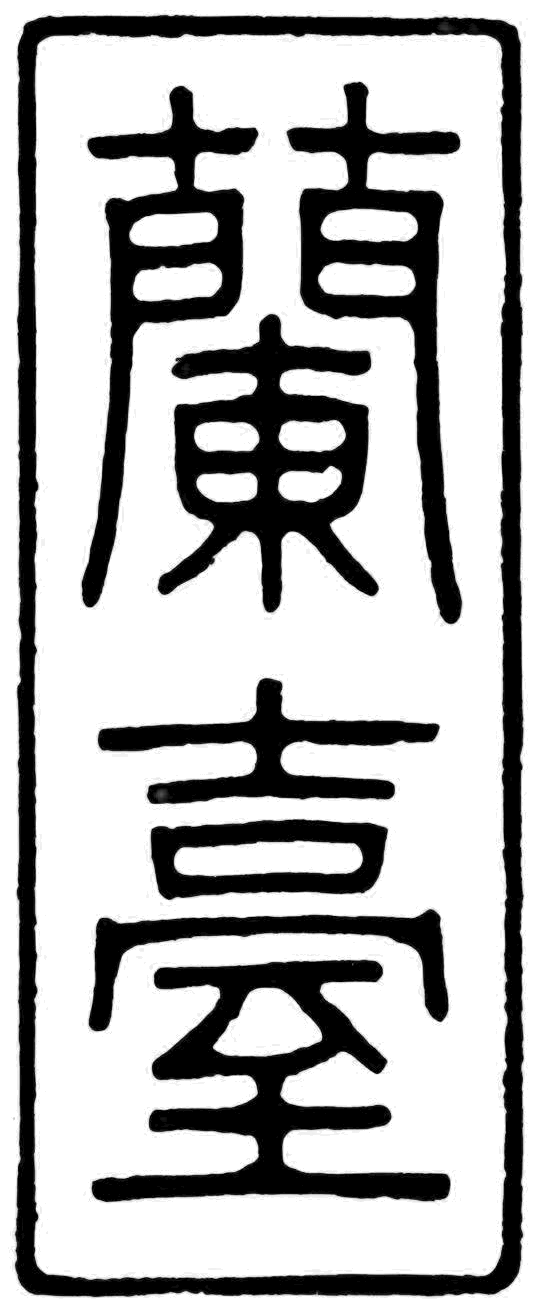
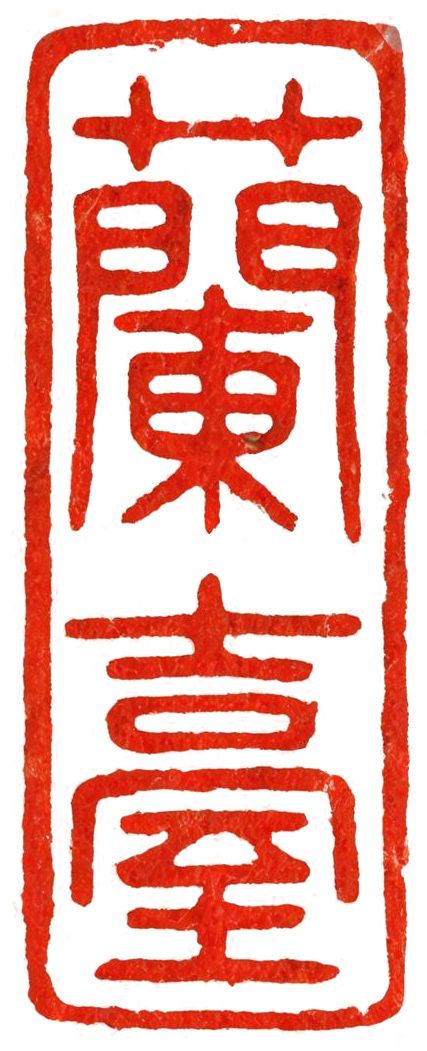
feat(paper): 印章遮罩重制——蘭臺朱文竖章三选二换装（材质批二收口）
sh-seal-mask.png 换新：seedream 生「蘭臺」朱文竖章三候选（用户目选 2 号）
→ 红度阈值去白底（R−max(G,B) 12–48 软阈——白底全透 50%、笔画实 42%、
边缘软晕 8%，抗锯齿羽化天然成形）→ alpha mask。
- 章面比例 427:1051（≈1:2.46），aspect-ratio 同步；旧 540:1314 退役
- 旧注释指向的 assets/seals/seal-zhuwen-vertical.jpeg 源图仓库本就不在
  （D1 未入库），注释改述现行管道，不再引用幽灵路径
- 印面 = --seal token 实色 × 印泥纹理（材质批一）× 新 mask 形状——
  三层各管一摊，换章不动色不动泥

验证：mask 目检（蘭臺篆字清晰、边框完整、软边无白残）；首页截图目检 +
数值（红像素 500 / 亮度 140.8 / 起伏 14.9——纹理乘印仍在）；钉测试 20/20、
biome 0/0、build 绿。

diff --git a/src-ui/src/app/foundation.css b/src-ui/src/app/foundation.css
@@ -165,13 +165,16 @@ body::before {
   gap: 16px;
 }
 /* 朱砂印章（蘭臺竖章，微倾——手钤不端正才自然）。
- * D1 印章重制落地（2026-08-29）：CSS 字排章退役，换生图篆刻资产——
- * mask 即形状（sh-seal-mask.png alpha 遮罩，由 assets/seals/seal-zhuwen-vertical.jpeg
- * 去白底生成），background-color 直用 --seal token，色随 token 走不改图。
- * 原始章面比例 540:1314（≈1:2.43），aspect-ratio 钉住防拉伸。 */
+ * D1 印章重制（2026-08-29）：CSS 字排章退役，换生图篆刻资产——mask 即形状
+ * （sh-seal-mask.png alpha 遮罩），background-color 直用 --seal token，色随
+ * token 走不改图。
+ * 遮罩重制（2026-09-01 材质批二）：seedream 生「蘭臺」朱文竖章（用户三选二）
+ * → 红度阈值去白底（R−max(G,B) 12–48 软阈出软边）→ alpha mask——白底 50%
+ * 全透、笔画 42% 实、边缘 8% 软晕。章面比例 427:1051（≈1:2.46），aspect-ratio
+ * 钉住防拉伸。印面另有印泥分材质纹理（见 background-image 注）。 */
 .sh-seal {
   height: 50px;
-  aspect-ratio: 540 / 1314;
+  aspect-ratio: 427 / 1051;
   flex: 0 0 auto;
   transform: rotate(-3deg);
   background-color: var(--seal);
